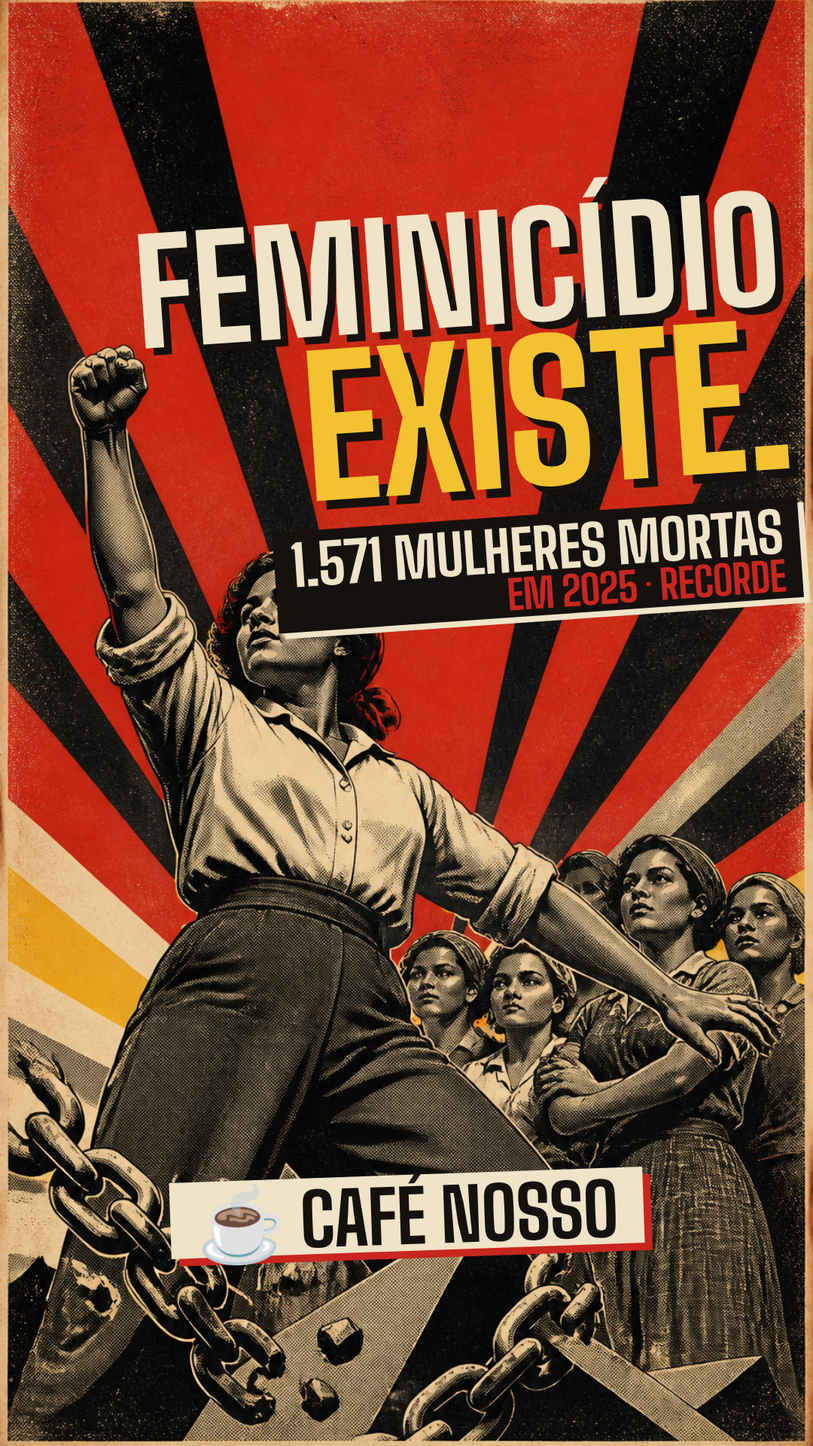
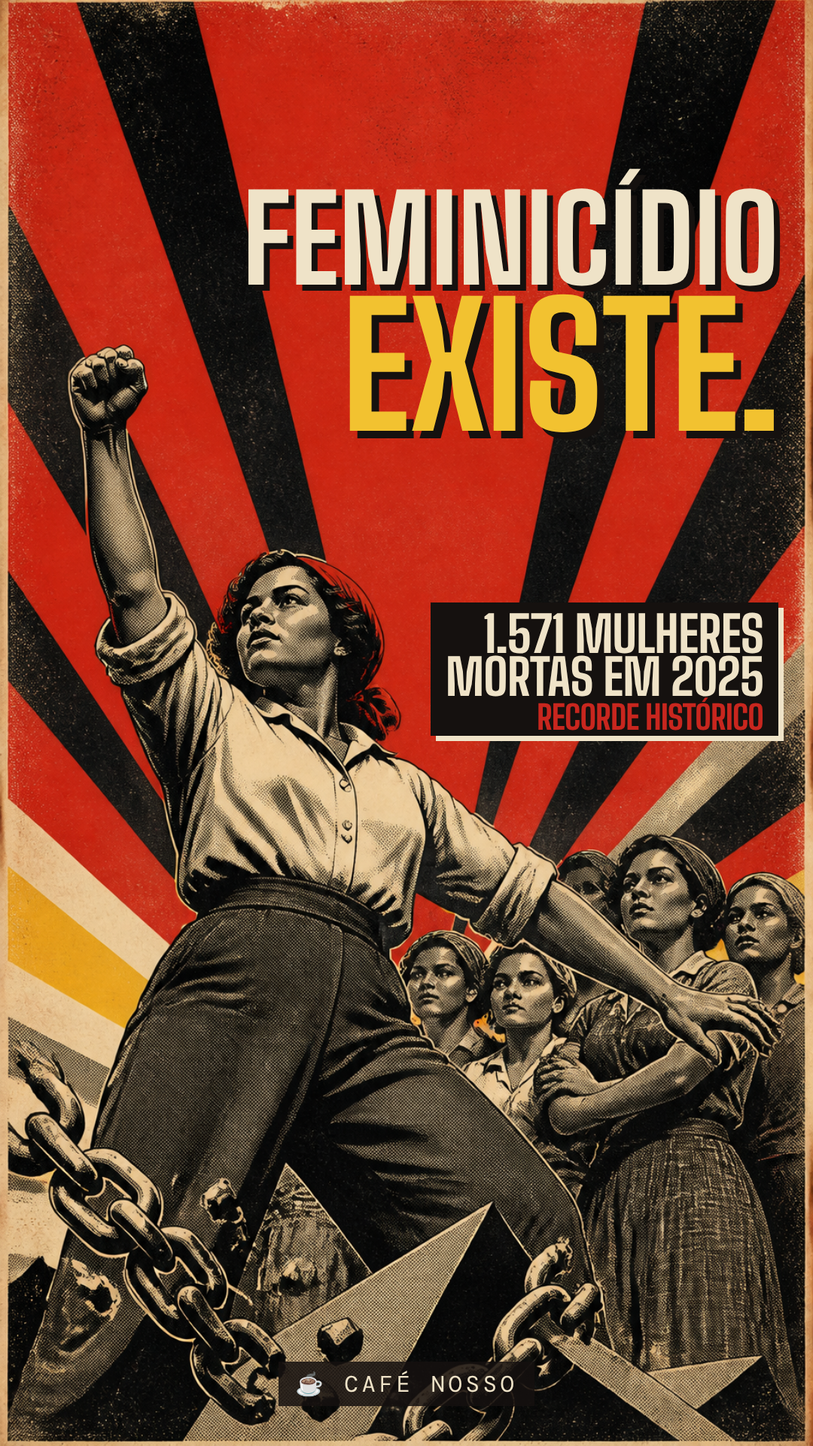
Café Nosso: capa refeita sem cobrir a ilustração
Claude-Session: https://claude.ai/code/session_01VBWSjMTJH5xtTjQz4eiqcm

Changed region(s): [[0.1528, 0.0938, 1.0, 0.5312], [0.1833, 0.7812, 0.825, 0.875], [0.3361, 0.9375, 0.6417, 1.0]]

diff --git a/voto-feminino/video/src/CapaFeminicidio.tsx b/voto-feminino/video/src/CapaFeminicidio.tsx
@@ -11,16 +11,20 @@ const display = (size: number, c: string): React.CSSProperties => ({
 export const CapaFeminicidio: React.FC = () => (
   <AbsoluteFill style={{ backgroundColor: color.ink }}>
     <Img src={staticFile("img/capa-feminicidio.png")} style={{ width: "100%", height: "100%", objectFit: "cover" }} />
-    <div style={{ position: "absolute", right: 50, top: 250, textAlign: "right", transform: "rotate(-4deg)", transformOrigin: "right top" }}>
-      <div style={{ ...display(190, color.paper), textShadow: `10px 10px 0 ${color.ink}` }}>FEMINICÍDIO</div>
-      <div style={{ ...display(250, color.yellow), textShadow: `12px 12px 0 ${color.ink}`, marginTop: 6 }}>EXISTE.</div>
-      <div style={{ display: "inline-block", marginTop: 26, backgroundColor: color.ink, padding: "14px 22px 6px", boxShadow: `8px 8px 0 ${color.paper}` }}>
-        <div style={{ ...display(74, color.paper) }}>1.571 MULHERES MORTAS</div>
-        <div style={{ ...display(54, color.red), marginTop: 4 }}>EM 2025 · RECORDE</div>
-      </div>
+    {/* título no céu de raios, à direita do punho */}
+    <div style={{ position: "absolute", right: 46, top: 250, textAlign: "right" }}>
+      <div style={{ ...display(158, color.paper), textShadow: `8px 8px 0 ${color.ink}` }}>FEMINICÍDIO</div>
+      <div style={{ ...display(224, color.yellow), textShadow: `10px 10px 0 ${color.ink}`, marginTop: 4 }}>EXISTE.</div>
     </div>
-    <div style={{ position: "absolute", left: 0, right: 0, top: 1560, display: "flex", justifyContent: "center" }}>
-      <div style={{ ...display(96, color.ink), backgroundColor: color.paper, padding: "14px 34px 4px", boxShadow: `10px 10px 0 ${color.red}`, transform: "rotate(-2deg)" }}>☕ CAFÉ NOSSO</div>
+    {/* dado à direita da cabeça, acima do grupo de mulheres */}
+    <div style={{ position: "absolute", right: 46, top: 800, textAlign: "right", backgroundColor: color.ink, padding: "14px 20px 6px", boxShadow: `7px 7px 0 ${color.paper}` }}>
+      <div style={{ ...display(66, color.paper) }}>1.571 MULHERES</div>
+      <div style={{ ...display(66, color.paper) }}>MORTAS EM 2025</div>
+      <div style={{ ...display(44, color.red), marginTop: 6 }}>RECORDE HISTÓRICO</div>
+    </div>
+    {/* assinatura pequena no rodapé, fora dos elementos principais */}
+    <div style={{ position: "absolute", left: 0, right: 0, top: 1808, display: "flex", justifyContent: "center" }}>
+      <div style={{ fontFamily: font.mono, fontSize: 30, letterSpacing: 5, color: color.paper, backgroundColor: "rgba(21,17,15,0.85)", padding: "10px 22px" }}>☕ CAFÉ NOSSO</div>
     </div>
   </AbsoluteFill>
 );
